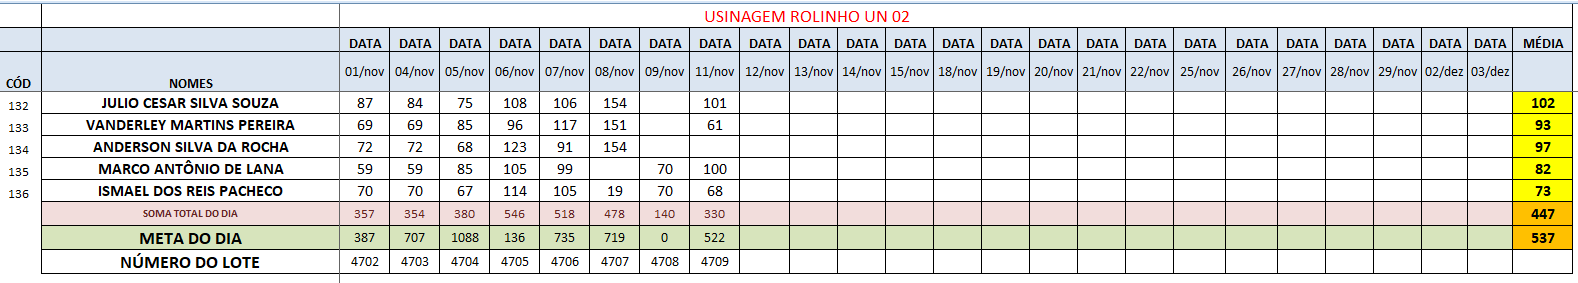
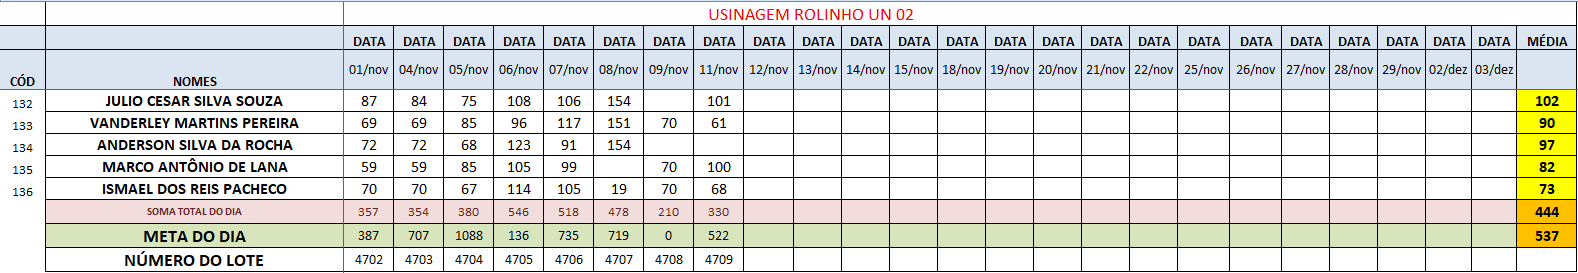
atualizado

diff --git a/back__incial.js b/back__incial.js
@@ -399,6 +399,7 @@ const unidades = {
             { data: "06/11/2024", captura: ["capturas/Unidade 2/Expedição/2024/11-Novembro/6.png"] },
             { data: "07/11/2024", captura: ["capturas/Unidade 2/Expedição/2024/11-Novembro/7.png"] },
             { data: "08/11/2024", captura: ["capturas/Unidade 2/Expedição/2024/11-Novembro/8.png"] },
+            { data: "11/11/2024", captura: ["capturas/Unidade 2/Expedição/2024/11-Novembro/11.png"] },
 
             
             // { data: "", captura: [""] },
@@ -493,6 +494,7 @@ const unidades = {
             { data: "06/11/2024", captura: ["capturas/Unidade 2/Usinagem/2024/11- Novembro/Roquite/6.png", "capturas/Unidade 2/Usinagem/2024/11- Novembro/Mont.Us/6.png", "capturas/Unidade 2/Usinagem/2024/11- Novembro/Usinagem/6.png", "capturas/Unidade 2/Usinagem/2024/11- Novembro/MM/6.png"] },
             { data: "07/11/2024", captura: ["capturas/Unidade 2/Usinagem/2024/11- Novembro/Rolinho/7.png", "capturas/Unidade 2/Usinagem/2024/11- Novembro/Roquite/7.png", "capturas/Unidade 2/Usinagem/2024/11- Novembro/Usinagem/7.png", "capturas/Unidade 2/Usinagem/2024/11- Novembro/MM/7.png"] },
             { data: "09/11/2024", captura: ["capturas/Unidade 2/Usinagem/2024/11- Novembro/Roquite/9.png", "capturas/Unidade 2/Usinagem/2024/11- Novembro/Mont.Us/9.png"] },
+            { data: "11/11/2024", captura: ["capturas/Unidade 2/Usinagem/2024/11- Novembro/Rolinho/11.png", "capturas/Unidade 2/Usinagem/2024/11- Novembro/Usinagem/11.png", "capturas/Unidade 2/Usinagem/2024/11- Novembro/MM/11.png"] },
 
 
             // { data: "", captura: ["", "", "", "", ""] },
@@ -584,6 +586,8 @@ const unidades = {
 
             { data: "06/11/2024", captura: ["capturas/Unidade 3/Usinagem/2024/11- Novembro/6.png"] }, 
             { data: "07/11/2024", captura: ["capturas/Unidade 3/Usinagem/2024/11- Novembro/7.png"] }, 
+            { data: "11/11/2024", captura: ["capturas/Unidade 3/Usinagem/2024/11- Novembro/11.png"] },
+            { data: "12/11/2024", captura: ["capturas/Unidade 3/Usinagem/2024/11- Novembro/12.png"] },
 
 
             // { data: "", captura: [""] }, 
